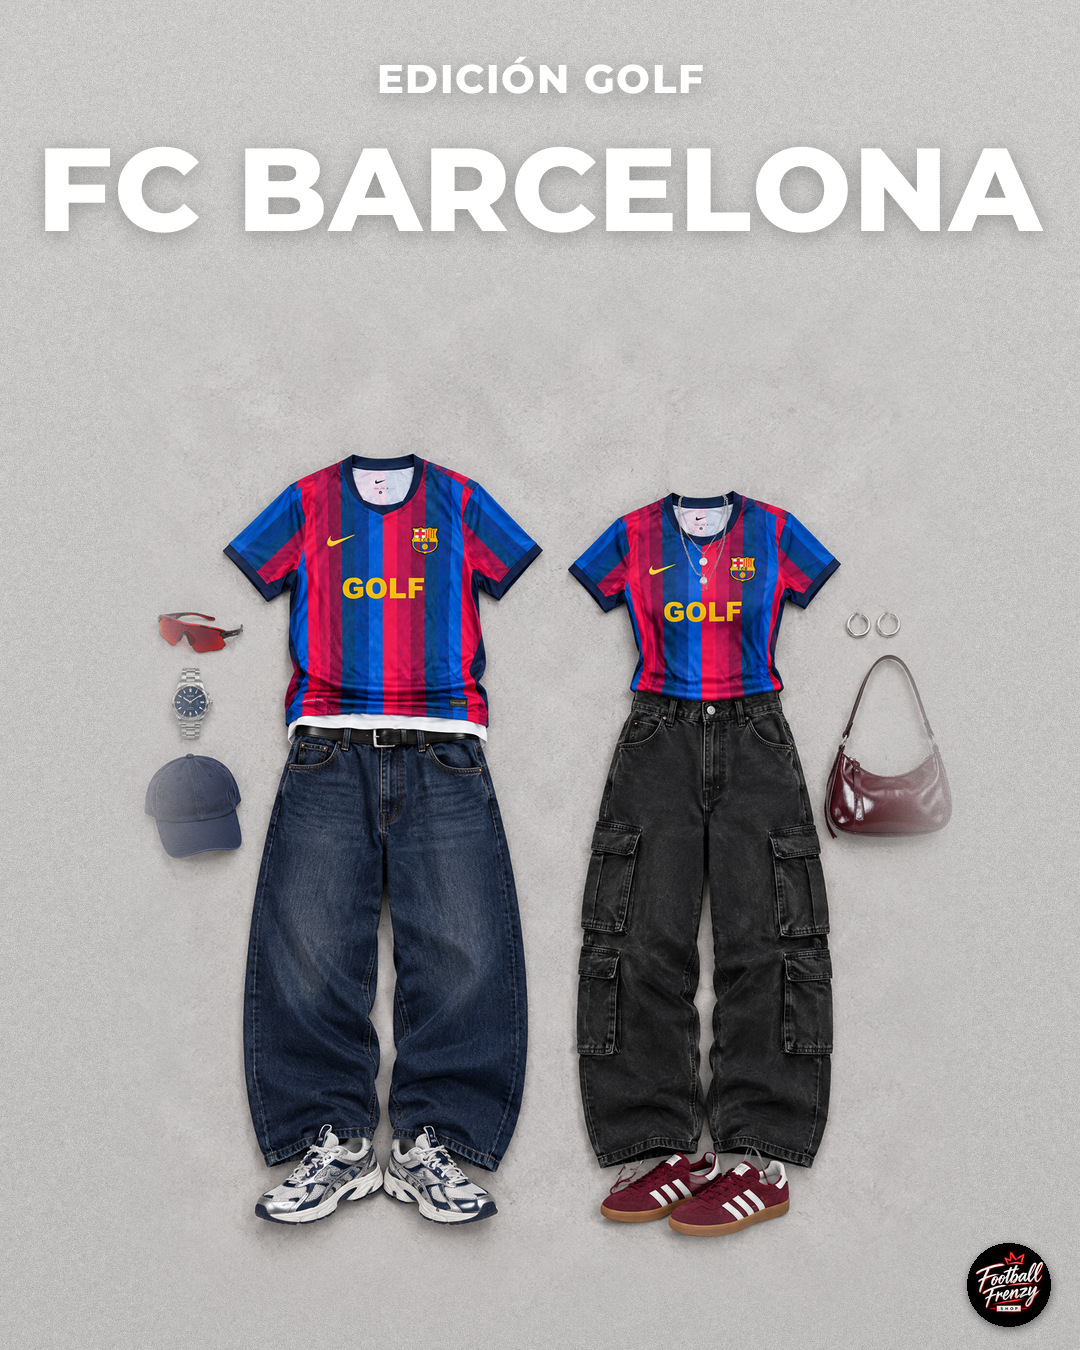
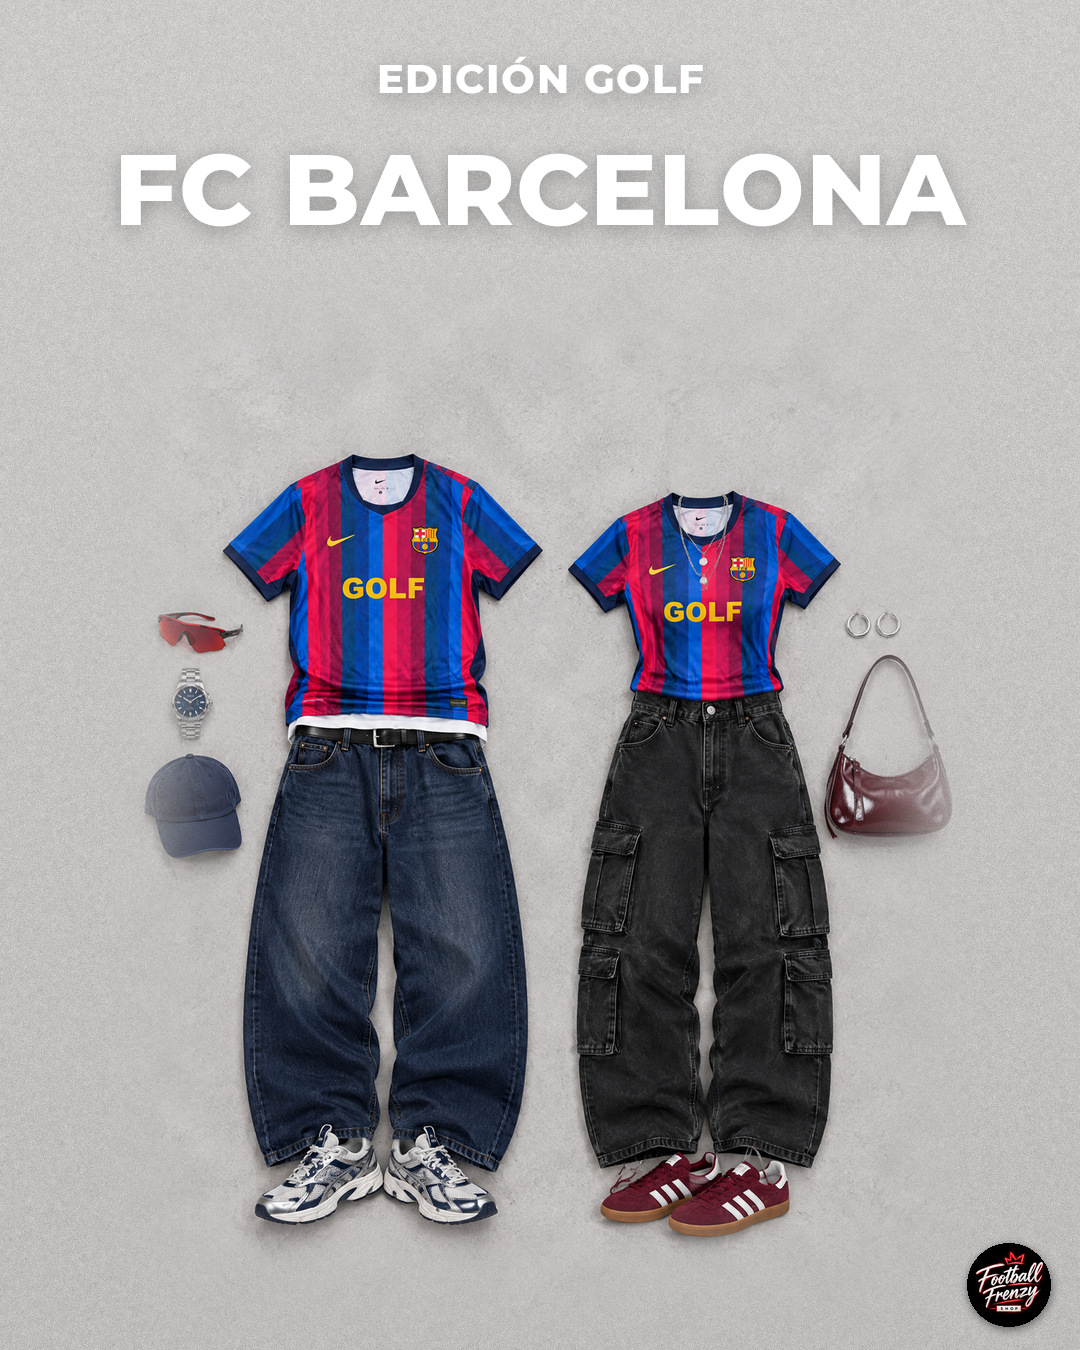
Carrusel outfits: América, Inter Miami y PSG con swap de jersey (sin IA de pago)
Claude-Session: https://claude.ai/code/session_01Y3XEkftw7SELToetvsGNVM

Changed region(s): [[0.0306, 0.0933, 0.9778, 0.1867]]

diff --git a/ads/swap_jersey.py b/ads/swap_jersey.py
@@ -1,0 +1,79 @@
+"""Cambia la jersey de un flat-lay de outfits (él/ella) por otra jersey recortada, sin IA de pago.
+
+Borra la jersey original (inpainting con el concreto del fondo), pega la nueva escalada a la misma caja y le agrega
+una sombra suave. Las cajas están en coordenadas de las imágenes base (1792x2240).
+"""
+import cv2
+import numpy as np
+from PIL import Image, ImageFilter, ImageOps
+
+BASES = {
+    "fcb": {"src": "out/outfits/raw/barca-golf.png", "boxes": [(240, 400, 900, 965), (956, 478, 1522, 912)],
+            "keep": [(90, 700, 300, 830)]},
+    "rm": {"src": "out/outfits/raw/real-madrid.png", "boxes": [(186, 358, 892, 812), (968, 428, 1552, 812)],
+           "keep": [(90, 760, 330, 860)]},
+}
+
+
+def _bg_mask(rgb, box, tol=34):
+    """Pixels inside box that differ from the smooth concrete background (= the old jersey)."""
+    border = np.concatenate([rgb[:40].reshape(-1, 3), rgb[:, :40].reshape(-1, 3), rgb[:, -40:].reshape(-1, 3)])
+    bg = np.median(border, 0)
+    d = (np.abs(rgb.astype(np.int16) - bg).max(2) > tol).astype(np.uint8)
+    m = np.zeros(d.shape, np.uint8)
+    x0, y0, x1, y1 = box
+    m[y0:y1, x0:x1] = d[y0:y1, x0:x1]
+    m = cv2.morphologyEx(m, cv2.MORPH_CLOSE, np.ones((31, 31), np.uint8))
+    n, lab, stats, _ = cv2.connectedComponentsWithStats(m)
+    if n > 1:
+        m = (lab == 1 + np.argmax(stats[1:, cv2.CC_STAT_AREA])).astype(np.uint8)
+    ff = m.copy()
+    cv2.floodFill(ff, None, (0, 0), 1)
+    m = m | (1 - ff)
+    return cv2.dilate(m, np.ones((11, 11), np.uint8))
+
+
+def _place(canvas, jersey, box, pad=1.07):
+    x0, y0, x1, y1 = box
+    bw, bh = x1 - x0, y1 - y0
+    s = max(bw * pad / jersey.width, bh * 1.0 / jersey.height)
+    j = jersey.resize((round(jersey.width * s), round(jersey.height * s)), Image.LANCZOS)
+    x = (x0 + x1) // 2 - j.width // 2
+    y = y0 - 10
+    sh = Image.new("RGBA", canvas.size, (0, 0, 0, 0))
+    a = Image.new("L", canvas.size, 0)
+    a.paste(j.getchannel("A"), (x + 6, y + 12))
+    a = a.filter(ImageFilter.GaussianBlur(14)).point(lambda v: int(v * 0.32))
+    sh.putalpha(a)
+    canvas.alpha_composite(sh)
+    canvas.alpha_composite(j, (x, y))
+
+
+def swap(base, jersey_png, out_png, flip=False):
+    info = BASES[base]
+    im = Image.open(info["src"]).convert("RGB")
+    rgb = np.asarray(im).copy()
+    mask = np.zeros(rgb.shape[:2], np.uint8)
+    for b in info["boxes"]:
+        mask |= _bg_mask(rgb, (b[0] - 40, b[1] - 20, b[2] + 40, b[3] + 5))
+    for x0, y0, x1, y1 in info.get("keep", []):
+        mask[y0:y1, x0:x1] = 0
+    clean = cv2.inpaint(cv2.cvtColor(rgb, cv2.COLOR_RGB2BGR), mask * 255, 9, cv2.INPAINT_TELEA)
+    canvas = Image.fromarray(cv2.cvtColor(clean, cv2.COLOR_BGR2RGB)).convert("RGBA")
+    boxes = info["boxes"]
+    if flip:
+        canvas = ImageOps.mirror(canvas)
+        W = canvas.width
+        boxes = [(W - b[2], b[1], W - b[0], b[3]) for b in boxes]
+    jersey = Image.open(jersey_png).convert("RGBA")
+    for b in boxes:
+        _place(canvas, jersey, b)
+    canvas.convert("RGB").save(out_png)
+    return out_png
+
+
+if __name__ == "__main__":
+    swap("fcb", "src/outfit/psg.png", "out/outfits/raw/psg.png")
+    swap("rm", "src/outfit/miami.png", "out/outfits/raw/inter-miami.png")
+    swap("fcb", "src/outfit/america.png", "out/outfits/raw/america.png", flip=True)
+    print("ok")

diff --git a/ads/recorte_items.py b/ads/recorte_items.py
@@ -1,0 +1,41 @@
+"""Separa prendas/accesorios de un flat-lay sobre fondo liso (concreto): cada objeto -> PNG transparente.
+Uso: python3 recorte_items.py imagen.png carpeta_salida
+"""
+import os, sys
+import numpy as np
+from PIL import Image, ImageFilter
+from scipy import ndimage
+
+
+def items(src, out, tol=26, min_area=1500):
+    os.makedirs(out, exist_ok=True)
+    im = Image.open(src).convert("RGB")
+    a = np.asarray(im).astype(np.float32)
+    # background estimate: heavy median blur of the image (concrete is smooth), objects stand out from it
+    bgimg = np.asarray(im.resize((im.width // 16, im.height // 16)).filter(ImageFilter.MedianFilter(9)).resize(im.size, Image.BILINEAR), np.float32)
+    d = np.abs(a - bgimg).max(axis=2)
+    fg = d > tol
+    fg = ndimage.binary_closing(fg, iterations=4)
+    fg = ndimage.binary_fill_holes(fg)
+    fg = ndimage.binary_opening(fg, iterations=2)
+    lab, n = ndimage.label(fg)
+    sizes = ndimage.sum(fg, lab, range(1, n + 1))
+    res = []
+    for i, s in enumerate(sizes, 1):
+        if s < min_area:
+            continue
+        m = lab == i
+        ys, xs = np.where(m)
+        y0, y1, x0, x1 = ys.min(), ys.max() + 1, xs.min(), xs.max() + 1
+        alpha = Image.fromarray((m[y0:y1, x0:x1] * 255).astype(np.uint8)).filter(ImageFilter.GaussianBlur(1.2))
+        piece = im.crop((x0, y0, x1, y1)).convert("RGBA")
+        piece.putalpha(alpha)
+        name = f"{out}/{i:03d}_{x0}_{y0}.png"
+        piece.save(name)
+        res.append((name, x0, y0, x1 - x0, y1 - y0, int(s)))
+    for r in sorted(res, key=lambda r: (r[2], r[1])):
+        print(*r)
+
+
+if __name__ == "__main__":
+    items(sys.argv[1], sys.argv[2])

diff --git a/ads/carrusel_outfits.py b/ads/carrusel_outfits.py
@@ -1,5 +1,6 @@
 """Carrusel 'Cómo combinar tu jersey' (1080x1350), formato outfit-grid: fondo gris concreto, "HOME KIT" + nombre del club,
-dos outfits (él / ella) generados con Higgsfield usando de referencia la jersey real de la tienda.
+dos outfits (él / ella). Madrid y Barça generados con Higgsfield; América, Inter Miami y PSG hechos con swap_jersey.py
+(misma ropa, jersey real de la tienda pegada encima), sin costo.
 
 Portada → un slide por club (out/outfits/raw/<club>.png) → cierre con CTA.
 Uso: python3 carrusel_outfits.py
@@ -20,6 +21,9 @@ WHITE, INK, RED = (255, 255, 255), (20, 20, 22), (225, 30, 45)
 CLUBS = [
     ("real-madrid", "HOME KIT", ["REAL MADRID"]),
     ("barca-golf", "EDICIÓN GOLF", ["FC BARCELONA"]),
+    ("america", "HOME KIT", ["CLUB AMÉRICA"]),
+    ("inter-miami", "HOME KIT", ["INTER MIAMI"]),
+    ("psg", "HOME KIT", ["PARIS", "SAINT-GERMAIN"]),
 ]
 
 
@@ -53,7 +57,7 @@ def concrete():
 def title(c, kicker, lines, y=130):
     put(c, shadow(sans(kicker, 40, track=0.04)), W / 2, y)
     for i, s in enumerate(lines):
-        put(c, shadow(sans(s, 118 if len(s) < 13 else 100, track=0.01)), W / 2, y + 115 + i * 120)
+        put(c, shadow(sans(s, 118 if len(s) < 12 else 100, track=0.01)), W / 2, y + 115 + i * 120)
 
 
 def mark(c):

diff --git a/ads/recorte_azul.py b/ads/recorte_azul.py
@@ -5,7 +5,7 @@ from PIL import Image, ImageFilter
 from scipy import ndimage
 
 
-def cut(src, dst, tol=95):
+def cut(src, dst, tol=95, corners_only=False):
     im = Image.open(src).convert("RGB")
     a = np.asarray(im).astype(np.float32)
     h, w, _ = a.shape
@@ -13,7 +13,10 @@ def cut(src, dst, tol=95):
     bg = np.median(border, axis=0)
     d = np.sqrt(((a - bg) ** 2).sum(axis=2))
     lab, _ = ndimage.label(d < tol)
-    edge = set(np.unique(np.concatenate([lab[0], lab[-1], lab[:, 0], lab[:, -1]]))) - {0}
+    if corners_only:
+        edge = {lab[2, 2], lab[2, -3], lab[-3, 2], lab[-3, -3]} - {0}
+    else:
+        edge = set(np.unique(np.concatenate([lab[0], lab[-1], lab[:, 0], lab[:, -1]]))) - {0}
     back = np.isin(lab, list(edge))
     fg = ~back
     lab2, n = ndimage.label(fg)
@@ -34,4 +37,4 @@ def cut(src, dst, tol=95):
 
 
 if __name__ == "__main__":
-    cut(sys.argv[1], sys.argv[2])
+    cut(sys.argv[1], sys.argv[2], corners_only="--corners" in sys.argv)
